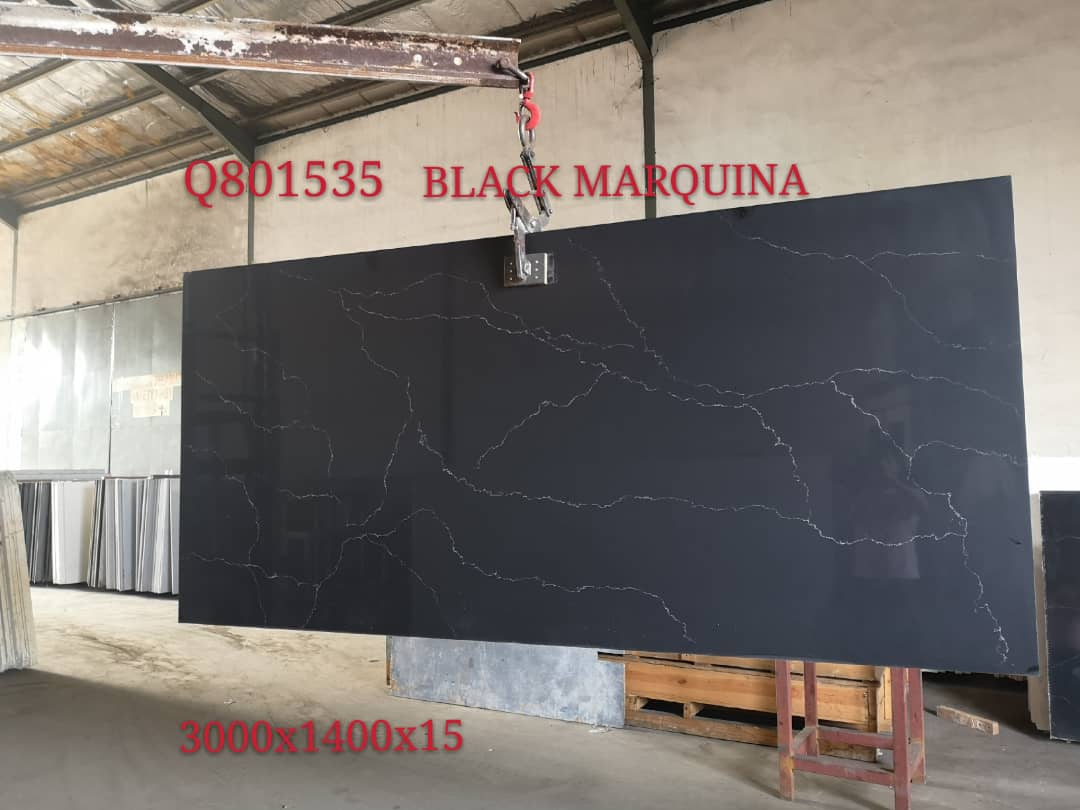
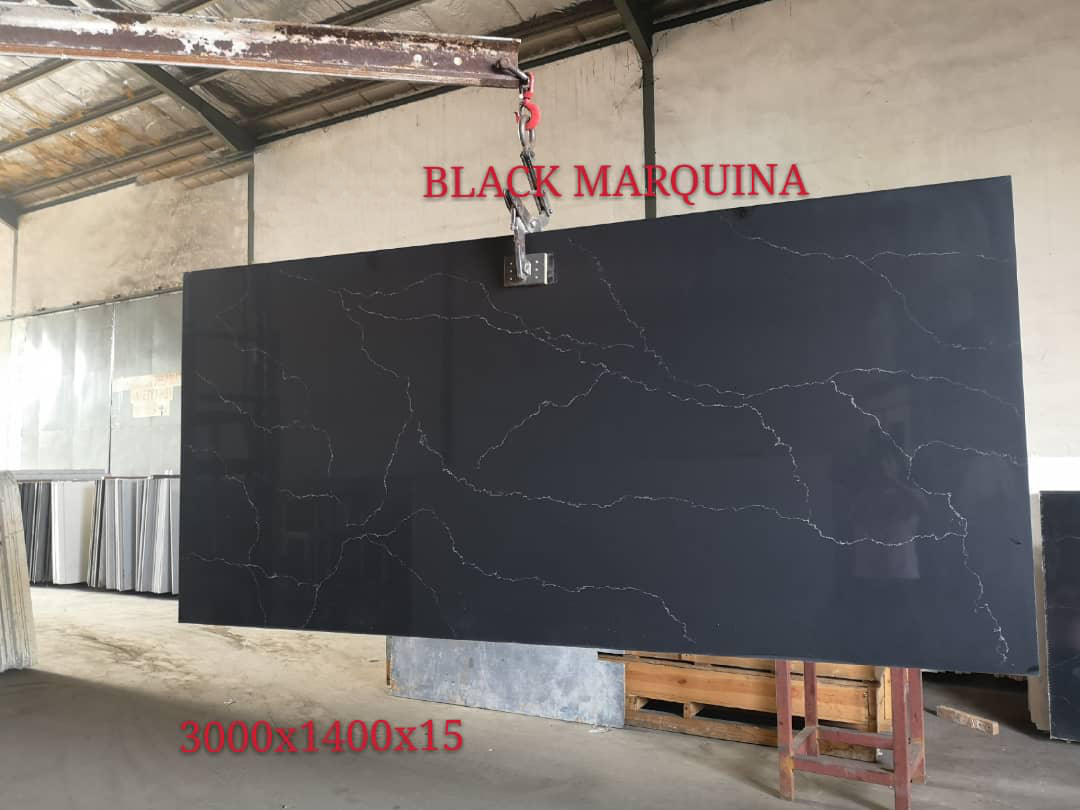
remove factory code

Changed region(s): [[0.1222, 0.1852, 0.3667, 0.2778]]

diff --git a/components/Zenstone/Marble.jsx b/components/Zenstone/Marble.jsx
@@ -11,7 +11,7 @@ const ZenstoneMarble = () => {
       <CollectionTitle>Marble Series</CollectionTitle>
       <Grid container justifyContent="center" spacing={1}>
         <SlabDisplay
-          imgSrc="/zenstone/qs/Q801501slab.jpg"
+          imgSrc="/zenstone/qs/Q801501.jpg"
           stoneName="Cararra White"
           price={marble}
         />
@@ -53,7 +53,7 @@ const ZenstoneMarble = () => {
         />
 
         <SlabDisplay
-          imgSrc="/zenstone/qs/Q802031-slab.jpg"
+          imgSrc="/zenstone/qs/Q802031.jpg"
           stoneName="Calacatta Venato"
           price={marble}
         />
